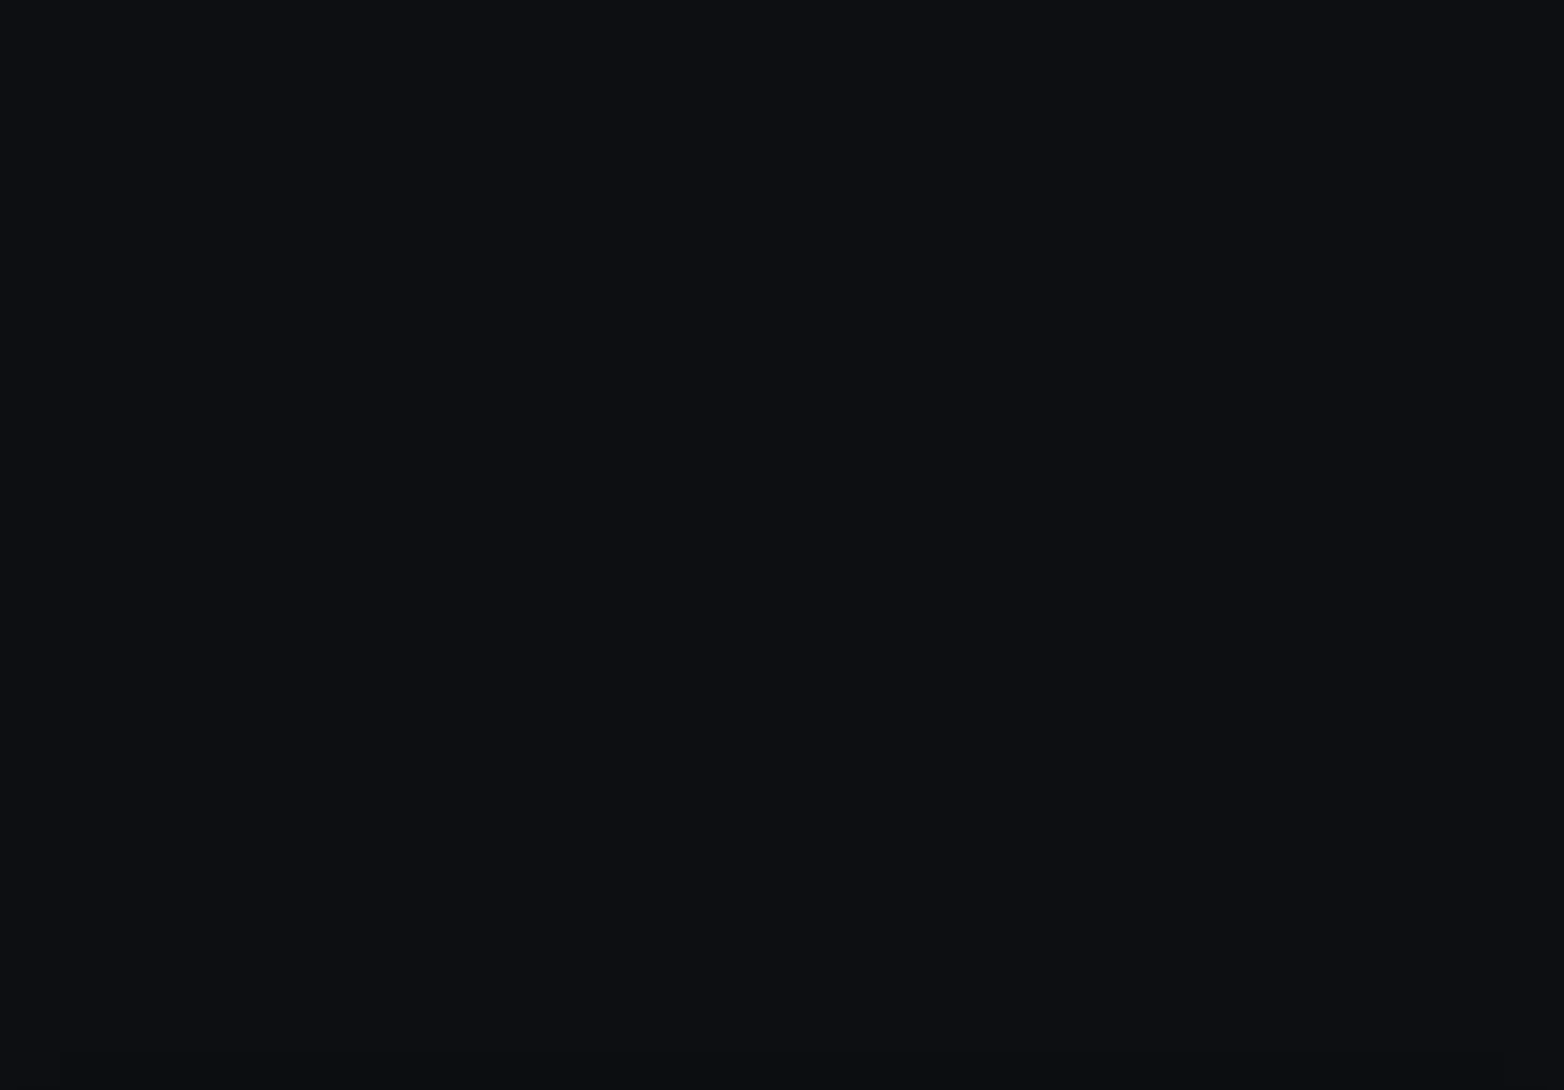
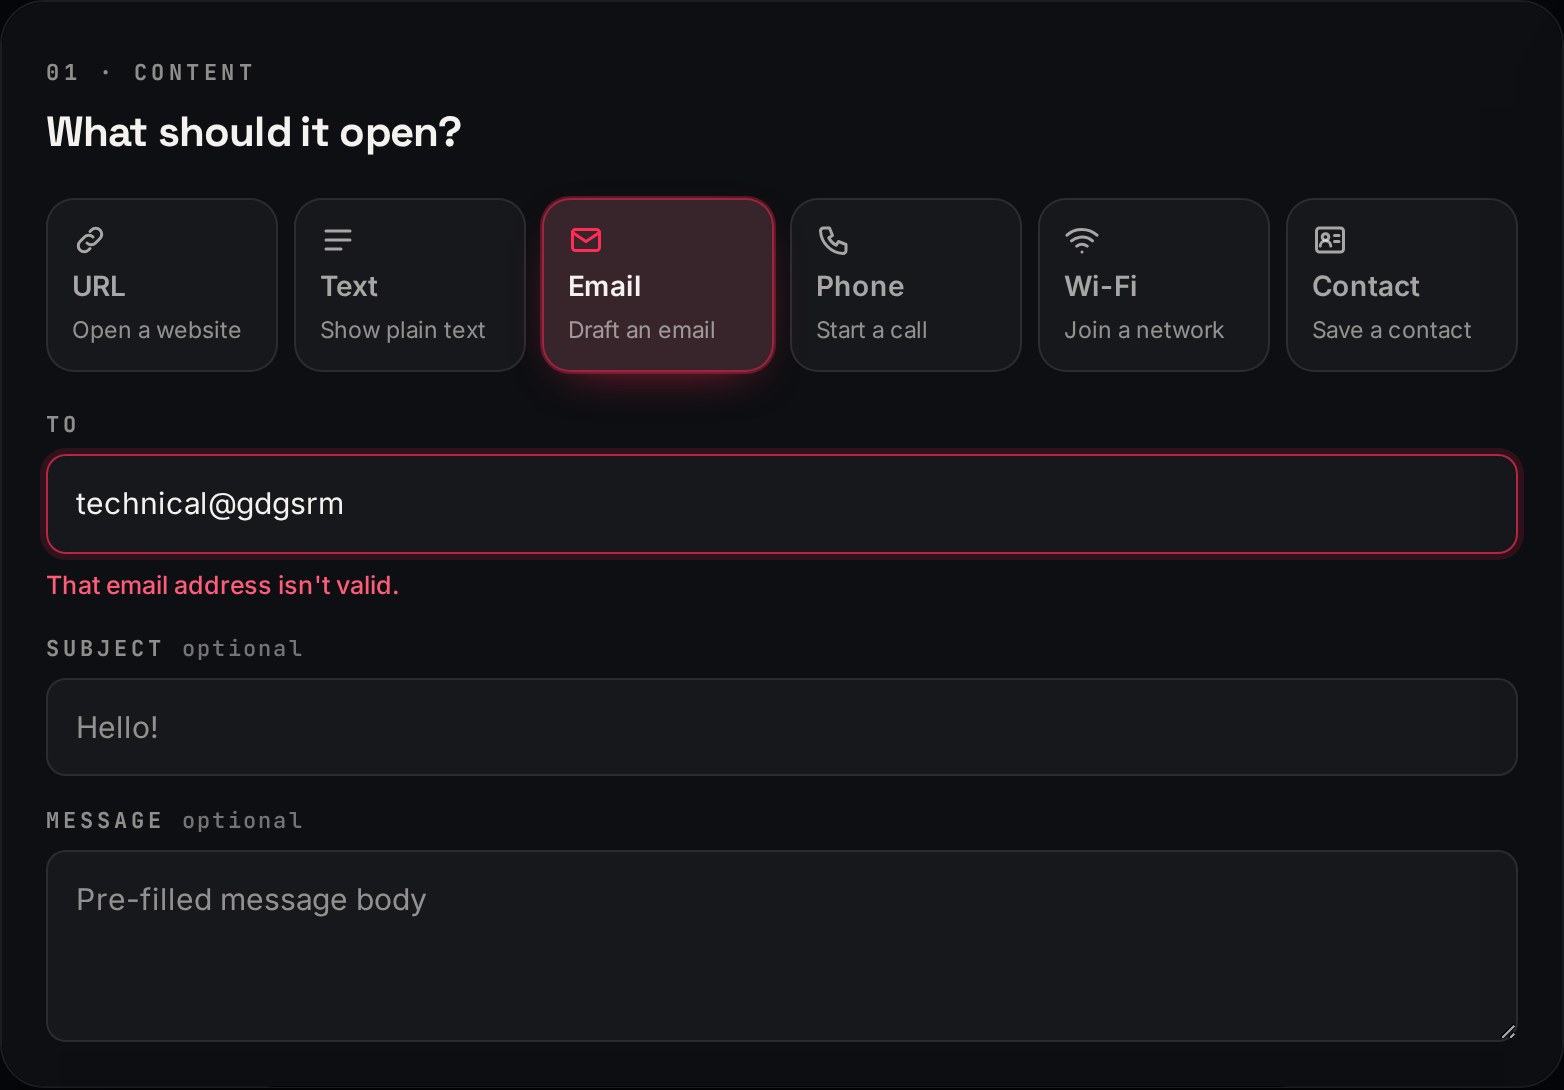
Fix blank validation screenshot (screenshot script un-positioned the preview panel); guard against blank README screenshots

diff --git a/e2e/screenshots.spec.ts b/e2e/screenshots.spec.ts
@@ -21,7 +21,7 @@ async function open(page: Page, theme: "dark" | "light", width = 1440, height = 
 /** Element captures: keep the sticky bar and toasts from overlapping. */
 async function forElementShot(page: Page) {
   await page.addStyleTag({
-    content: ".topbar{position:static!important}.toast{display:none!important}.panel--preview{position:static!important}",
+    content: ".topbar{position:static!important}.toast{display:none!important}.panel.panel--preview{position:relative!important;top:auto!important}",
   });
 }
 
@@ -146,4 +146,25 @@ test("website logo detected automatically", async ({ page }) => {
   await forElementShot(page);
   await page.locator(".panel--preview").screenshot({ path: `${OUT}/site-logo.png` });
   await page.locator(".design-section", { hasText: "Logo" }).last().screenshot({ path: `${OUT}/site-logo-controls.png` });
+});
+
+// Guard: a capture that came out blank (e.g. something painted over the
+// panel) must fail loudly instead of quietly landing in the README.
+test("no screenshot is blank", async () => {
+  const { readdirSync, readFileSync } = await import("node:fs");
+  const { PNG } = await import("pngjs");
+  for (const file of readdirSync(OUT).filter((f) => f.endsWith(".png"))) {
+    const { data } = PNG.sync.read(readFileSync(`${OUT}/${file}`));
+    let sum = 0;
+    let sq = 0;
+    let n = 0;
+    for (let i = 0; i < data.length; i += 16) {
+      const l = 0.299 * data[i] + 0.587 * data[i + 1] + 0.114 * data[i + 2];
+      sum += l;
+      sq += l * l;
+      n++;
+    }
+    const stddev = Math.sqrt(sq / n - (sum / n) ** 2);
+    if (stddev < 5) throw new Error(`${file} looks blank (luminance stddev ${stddev.toFixed(1)})`);
+  }
 });
